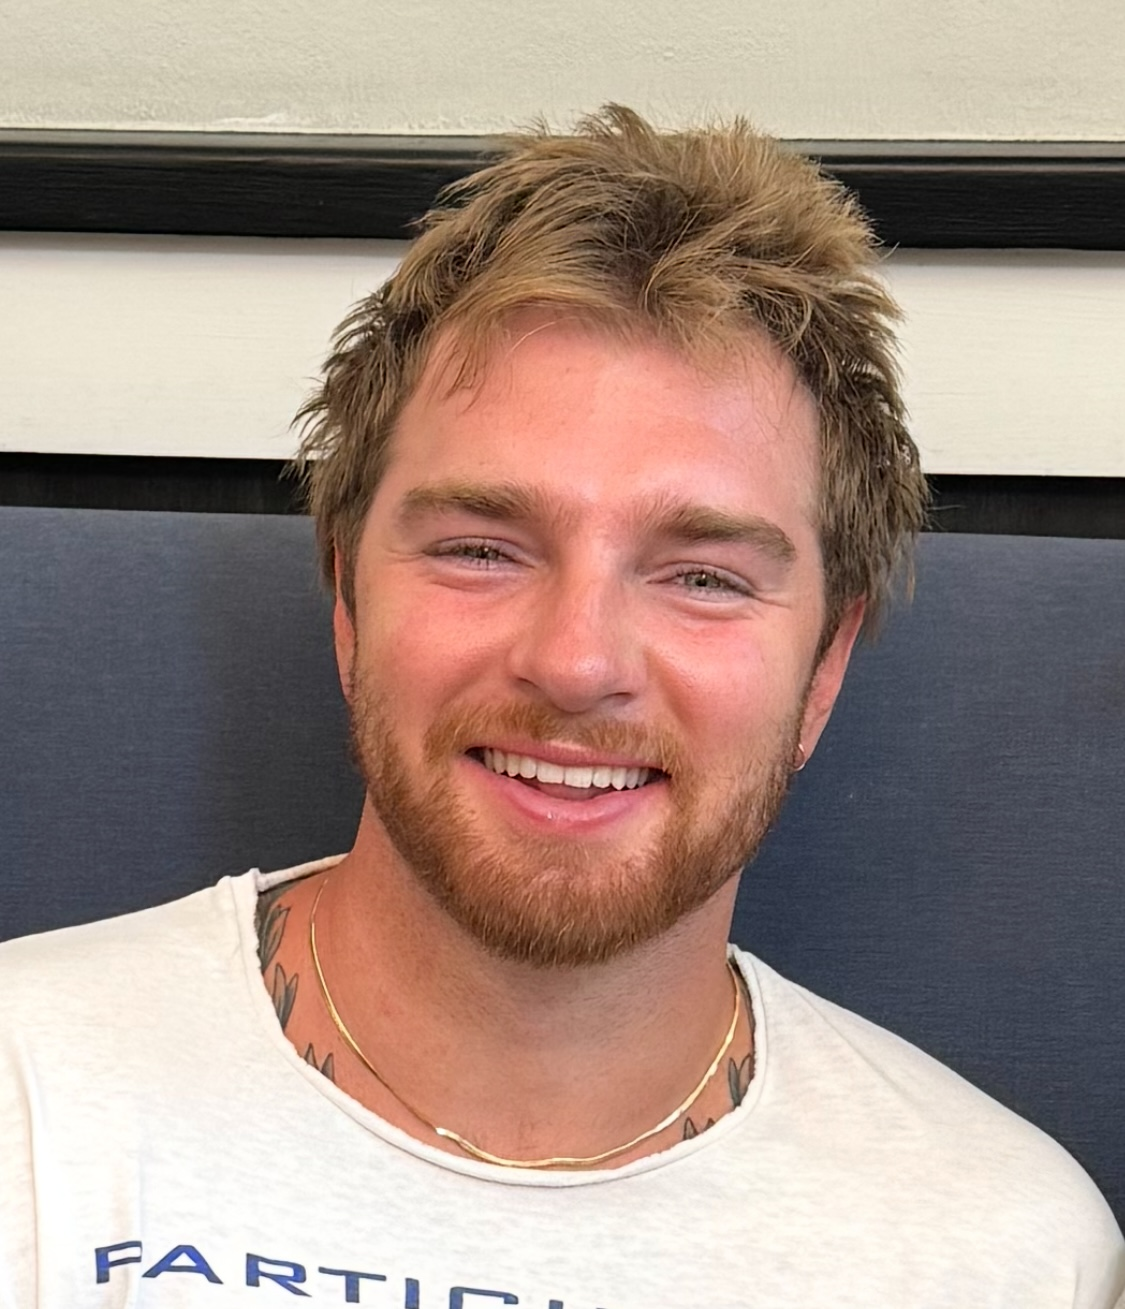
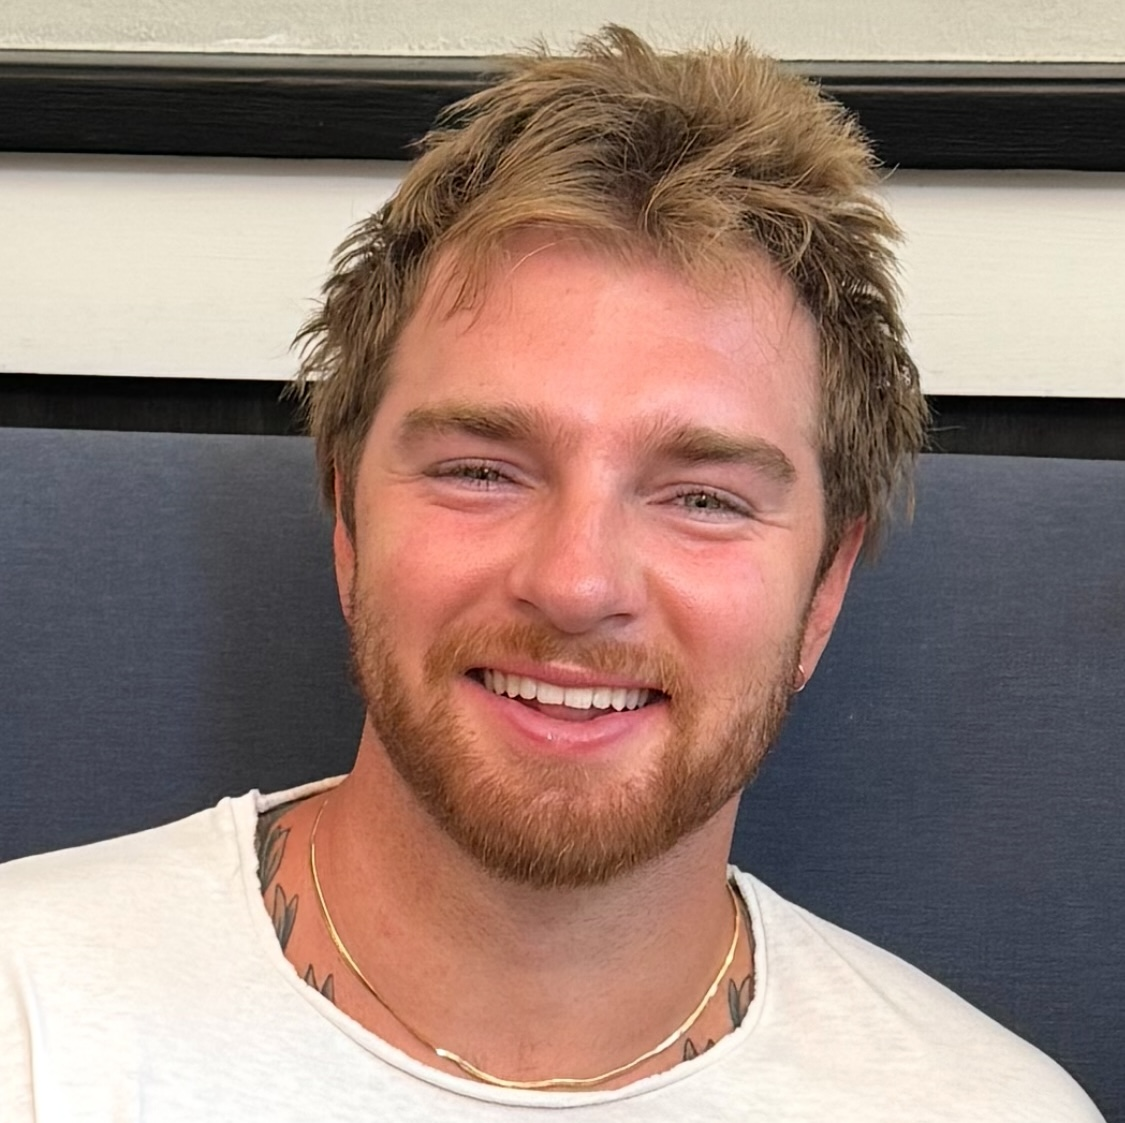
Finishes HTML and CSS

diff --git a/styles.css b/styles.css
@@ -15,7 +15,7 @@ h1 {
 nav {
 	display: flex;
 	justify-content: space-between;
-	padding: 40px 2%;
+	padding: 32px 2%;
 }
 
 nav > ul {
@@ -26,13 +26,117 @@ nav > ul {
 
 nav > ul > a {
 	margin-left: 40px;
+	color: rgb(60, 60, 60);
+}
+
+nav a:active {
+	color: rgb(140, 140, 140);
 }
 
 section {
-	padding: 40px 2%;
+	padding: 16px 2%;
 }
 
 .about-columns {
 	display: flex;
 	justify-content: space-between;
+	box-sizing: border-box;
+}
+
+.about-columns p {
+	width: 50%;
+}
+
+.headshot-container {
+	width: 40%;
+	height: 400px;
+	overflow: hidden;
+}
+
+.headshot-container img {
+	max-height: 100%;
+	width: auto;
+	display: block;
+}
+
+@media only screen and (max-width: 800px) {
+	/* mobile nav */
+	.about-columns {
+		flex-wrap: wrap;
+	}
+
+	.about-columns p {
+		width: 80%;
+	}
+	.headshot-container {
+		margin-top: 20px;
+		width: 80%;
+	}
+}
+
+.projects h3 {
+	margin-top: 16px;
+	/* margin-bottom: 16px; */
+}
+
+.osil-box img {
+	margin-top: 8px;
+}
+
+#skills-container {
+	display: flex;
+	width: 100%;
+	justify-content: space-between;
+	flex-wrap: wrap;
+	margin-top: 16px;
+}
+
+#skills-container > * {
+	font-size: 2em;
+	width: 2em;
+	margin-top: var(--spacing-1);
+}
+
+#skills-container i {
+	margin-bottom: 8px;
+}
+
+footer p {
+	text-align: center;
+	margin-top: 8px;
+	margin-bottom: 8px;
+}
+
+.contact-columns {
+	display: flex;
+	justify-content: space-between;
+	box-sizing: border-box;
+}
+
+.contact-items {
+	display: flex;
+	flex-wrap: wrap;
+	align-content: space-around;
+	width: 50%;
+}
+
+@media only screen and (max-width: 800px) {
+	/* mobile nav */
+	.contact-columns {
+		flex-wrap: wrap;
+	}
+
+	.contact-items {
+		width: 80%;
+	}
+
+	.contact-items h3 {
+		width: 100%;
+		margin-bottom: 4px;
+	}
+
+	.headshot-container {
+		margin-top: 20px;
+		width: 80%;
+	}
 }

diff --git a/index.html b/index.html
@@ -5,6 +5,10 @@
 		<meta name="viewport" content="width=device-width, initial-scale=1.0" />
 		<title>Tim's Portfolio</title>
 		<link href="./styles.css" rel="stylesheet" />
+		<link
+			rel="stylesheet"
+			href="https://cdnjs.cloudflare.com/ajax/libs/font-awesome/6.7.2/css/all.min.css"
+		/>
 	</head>
 	<body>
 		<header>
@@ -54,18 +58,32 @@
 			</section>
 			<section class="projects" id="projectsid">
 				<h2>Projects</h2>
-				<p>osil</p>
-				<img src="images/osilLogo.jpg" alt="osil logo" />
+				<div class="osil-box">
+					<h3><span>&#8594;</span> osil</h3>
+					<h4>(click me)</h4>
+					<img src="images/osilLogo.jpg" alt="osil logo" />
+				</div>
 			</section>
 			<section class="skills" id="skillsid">
 				<h2>Skills</h2>
-				<p>TODO: ADD SOFTWARE LOGOS</p>
+				<div id="skills-container">
+					<i class="fa-solid fa-gears" title="Engineering"></i>
+					<i class="fa-solid fa-code" title="Web Development"></i>
+					<i class="fa-brands fa-python" title="Python"></i>
+					<i class="fa-brands fa-html5" title="HTML"></i>
+					<i class="fa-brands fa-css" title="CSS"></i>
+					<i class="fa-brands fa-js" title="JavaScript"></i>
+					<i class="fa-brands fa-git" title="Git"></i>
+					<i class="fa-brands fa-github" title="GitHub"></i>
+					<i class="fa-solid fa-terminal" title="Command Line"></i>
+					<i class="fa-brands fa-chrome" title="Chrome"></i>
+				</div>
 			</section>
 		</main>
 		<footer>
 			<p>
 				Portfolio in Progress...
-				<span>(Used as practice for WebDev Skills)</span>
+				<span>(Used as practice for WebDev skills)</span>
 			</p>
 		</footer>
 	</body>

diff --git a/contact.html b/contact.html
@@ -3,10 +3,43 @@
 	<head>
 		<meta charset="UTF-8" />
 		<meta name="viewport" content="width=device-width, initial-scale=1.0" />
-		<title>Contact Tim</title>
+		<title>Tim's Portfolio</title>
 		<link href="./styles.css" rel="stylesheet" />
 	</head>
 	<body>
-		<h1>FILLER</h1>
+		<header>
+			<nav>
+				<h1>Tim Barrick</h1>
+				<ul>
+					<a href="index.html"
+						><li><span>&#8592;</span> Go Back</li></a
+					>
+				</ul>
+			</nav>
+		</header>
+		<main>
+			<section class="about-me" id="aboutid">
+				<h2>Reach Me At...</h2>
+				<br />
+				<div class="contact-columns">
+					<div class="contact-items">
+						<h3>Email: tbarrick@usc.edu</h3>
+						<h3>Phone: 1(800)000-0000</h3>
+						<h3>LinkedIn: Timothy Barrick</h3>
+					</div>
+					<div class="headshot-container">
+						<img src="images/headshot.jpg" alt="Photo of Tim" />
+					</div>
+				</div>
+			</section>
+			<section class="projects" id="projectsid"></section>
+			<section class="skills" id="skillsid"></section>
+		</main>
+		<footer>
+			<p>
+				Portfolio in Progress...
+				<span>(Used as practice for WebDev skills)</span>
+			</p>
+		</footer>
 	</body>
 </html>
